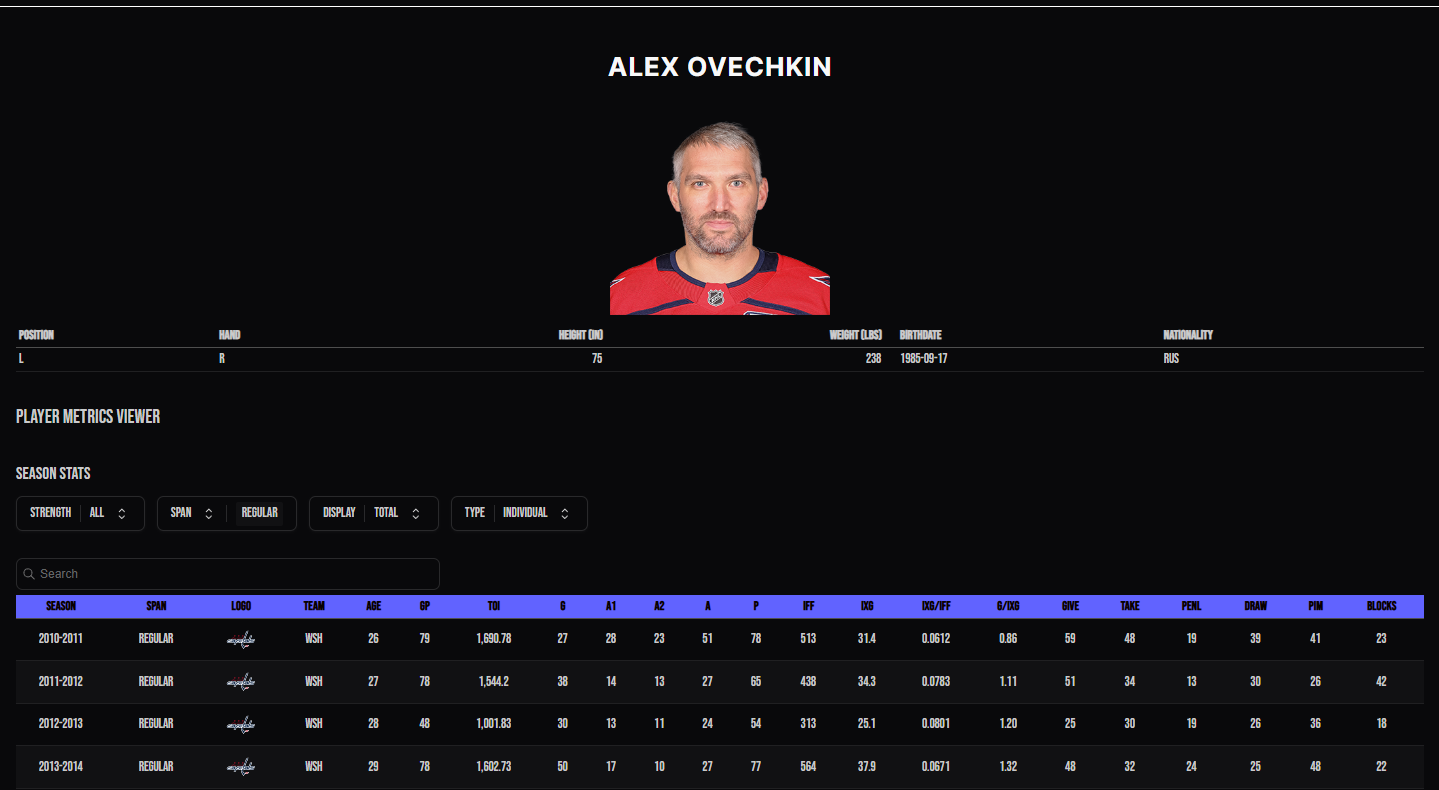
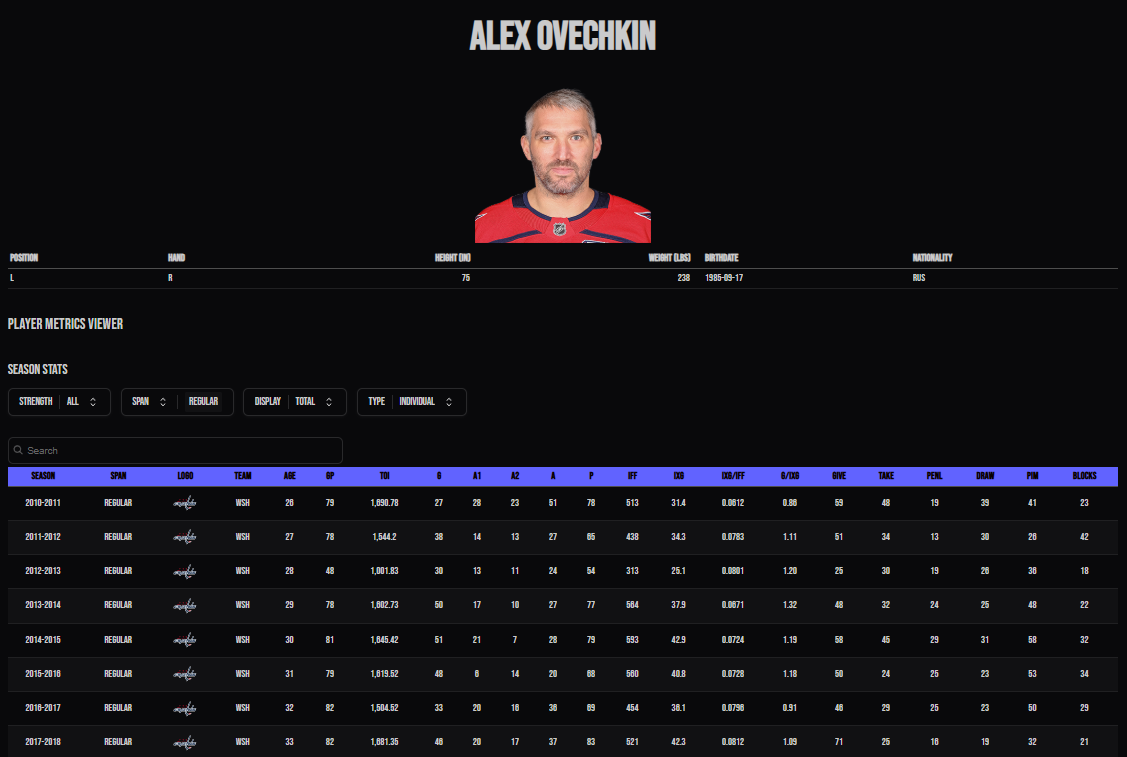
Sweeping changes to player pages and removal of pbp table

diff --git a/pages/players/[ID].md b/pages/players/[ID].md
@@ -55,77 +55,185 @@ AND
 
 ```sql game_titles
 SELECT DISTINCT
-   game_id,game_date,game_title
-FROM pbp
+   id,"date",game_title
+FROM schedule
 ```
 
 ```sql log
 SELECT
    SUBSTRING(t.game_title,1,9) as game_title,
-   t.game_date,
+   t.date as game_date,
    info.teamLogo,
    (A1+A2) as "A",
 	*
 FROM game_log
 LEFT JOIN ${game_titles} as t
-   ON game_log.Game=t.game_id
+   ON game_log.Game=t.id
 LEFT JOIN info
    ON game_log.Team=info.triCode AND game_log.Season=info.seasonId
 WHERE
-   ID = '${params.ID}'
-AND
-   Strength = '${inputs.strength_options.value}'
-AND
-   Span IN ${inputs.span_options.value}
-AND
-   Season = '${inputs.season_options.value}'
-```
-
-```sql plays
-SELECT
-   CASE
-      WHEN event_type IN ('missed-shot','shot-on-goal','goal') THEN "description" || ' - xG: ' || SUBSTRING(("xG"*100),1,5) || '%'
-      ELSE "description"
-   END as "description",
-   CASE 
-      WHEN strength_state NOT IN ('5v5','5v4','4v5') THEN 'Other' ELSE strength_state
-   END as strength_state,
-   CASE WHEN
-      x_adj < 0 THEN y_adj ELSE y_adj
-   END as x,
-   ABS(x_adj) as y,
-   *
-FROM pbp
-WHERE
-   skater_id = '${params.ID}'
-AND
-   season = '${inputs.shot_season.value}'
-AND
-   event_type IN ${inputs.event_options.value}
-AND
-   team = '${inputs.shot_team.value}'
-AND
-   strength_state IN ${inputs.strength_options_2.value}
-AND
-   season_type = '${inputs.span_options_2.value}'
-ORDER BY
-   game_date asc, event_num asc
+   game_log.ID = '${params.ID}'
+   AND Strength = '${inputs.strength_options.value}'
+   AND Span IN ${inputs.span_options.value}
+   AND Season = '${inputs.season_options.value}'
 ```
 
 ```sql shot_types   
-SELECT 
-   shot_type as "name",
-   COUNT(event_type) as "value"
-FROM ${plays} 
-GROUP BY
-   shot_type
+SELECT name, sum(value) as value
+FROM (
+      (
+         SELECT 
+            'wrist' as name,
+            WristFi as value,
+         FROM skater
+         WHERE
+            ID = '${params.ID}'
+            AND Season = '${inputs.shot_season.value}'
+            AND Team = '${inputs.shot_team.value}'
+            AND Strength IN ${inputs.strength_options_2.value}
+            AND Span = '${inputs.span_options_2.value}'
+      )
+      UNION ALL
+      (
+         SELECT 
+            'deflected' as name,
+            DeflectedFi as value,
+         FROM skater
+         WHERE
+            ID = '${params.ID}'
+            AND Season = '${inputs.shot_season.value}'
+            AND Team = '${inputs.shot_team.value}'
+            AND Strength IN ${inputs.strength_options_2.value}
+            AND Span = '${inputs.span_options_2.value}'
+      )
+      UNION ALL
+      (
+         SELECT 
+            'tip-in' as name,
+            "Tip-inFi" as value,
+         FROM skater
+         WHERE
+            ID = '${params.ID}'
+            AND Season = '${inputs.shot_season.value}'
+            AND Team = '${inputs.shot_team.value}'
+            AND Strength IN ${inputs.strength_options_2.value}
+            AND Span = '${inputs.span_options_2.value}'
+      )
+      UNION ALL
+      (
+         SELECT 
+            'slap' as name,
+            SlapFi as value,
+         FROM skater
+         WHERE
+            ID = '${params.ID}'
+            AND Season = '${inputs.shot_season.value}'
+            AND Team = '${inputs.shot_team.value}'
+            AND Strength IN ${inputs.strength_options_2.value}
+            AND Span = '${inputs.span_options_2.value}'
+      )
+      UNION ALL
+      (
+         SELECT 
+            'backhand' as name,
+            BackhandFi as value,
+         FROM skater
+         WHERE
+            ID = '${params.ID}'
+            AND Season = '${inputs.shot_season.value}'
+            AND Team = '${inputs.shot_team.value}'
+            AND Strength IN ${inputs.strength_options_2.value}
+            AND Span = '${inputs.span_options_2.value}'
+      )
+      UNION ALL
+      (
+         SELECT 
+            'snap' as name,
+            SnapFi as value,
+         FROM skater
+         WHERE
+            ID = '${params.ID}'
+            AND Season = '${inputs.shot_season.value}'
+            AND Team = '${inputs.shot_team.value}'
+            AND Strength IN ${inputs.strength_options_2.value}
+            AND Span = '${inputs.span_options_2.value}'
+      )
+      UNION ALL
+      (
+         SELECT 
+            'wrap-around' as name,
+            "Wrap-AroundFi" as value,
+         FROM skater
+         WHERE
+            ID = '${params.ID}'
+            AND Season = '${inputs.shot_season.value}'
+            AND Team = '${inputs.shot_team.value}'
+            AND Strength IN ${inputs.strength_options_2.value}
+            AND Span = '${inputs.span_options_2.value}'
+      )
+      UNION ALL
+      (
+         SELECT 
+            'poke' as name,
+            PokeFi as value,
+         FROM skater
+         WHERE
+            ID = '${params.ID}'
+            AND Season = '${inputs.shot_season.value}'
+            AND Team = '${inputs.shot_team.value}'
+            AND Strength IN ${inputs.strength_options_2.value}
+            AND Span = '${inputs.span_options_2.value}'
+      )
+      UNION ALL
+      (
+         SELECT 
+            'bat' as name,
+            BatFi as value,
+         FROM skater
+         WHERE
+            ID = '${params.ID}'
+            AND Season = '${inputs.shot_season.value}'
+            AND Team = '${inputs.shot_team.value}'
+            AND Strength IN ${inputs.strength_options_2.value}
+            AND Span = '${inputs.span_options_2.value}'
+      )
+      UNION ALL
+      (
+         SELECT 
+            'cradle' as name,
+            CradleFi as value,
+         FROM skater
+         WHERE
+            ID = '${params.ID}'
+            AND Season = '${inputs.shot_season.value}'
+            AND Team = '${inputs.shot_team.value}'
+            AND Strength IN ${inputs.strength_options_2.value}
+            AND Span = '${inputs.span_options_2.value}'
+      )
+      UNION ALL
+      (
+         SELECT 
+            'between-legs' as name,
+            "Between-legsFi" as value,
+         FROM skater
+         WHERE
+            ID = '${params.ID}'
+            AND Season = '${inputs.shot_season.value}'
+            AND Team = '${inputs.shot_team.value}'
+            AND Strength IN ${inputs.strength_options_2.value}
+            AND Span = '${inputs.span_options_2.value}'
+      )
+   )
+WHERE
+   value > 0
+GROUP BY "name"
 ```
 
 ```sql event_string
 SELECT
     STRING_AGG(event_type, ',') as string
 FROM
-    (SELECT DISTINCT event_type FROM pbp WHERE event_type IN ${inputs.event_options.value})
+    (SELECT DISTINCT event_type FROM events WHERE event_type IN ${inputs.event_options.value})
 ```
 
 ```sql strength_string
@@ -135,7 +243,7 @@ FROM
    (SELECT DISTINCT
       CASE WHEN
          strength_state IN ('5v5','5v4','4v5') THEN strength_state ELSE 'Other' END as strength_state
-   FROM pbp 
+   FROM strengths
    )
 WHERE 
    strength_state IN ${inputs.strength_options_2.value}

diff --git a/pages/index.md b/pages/index.md
@@ -19,18 +19,18 @@ hide_title: true
         <i>Evaluating, analyzing, and understanding the game of hockey through the lens of different analytical methods, including incorporation of analytics.</i>
     </div>
     <br>
-    <section class="w-full flex flex-col flex-wrap items-center text-center">
+    <section class="w-full flex flex-col items-center text-center">
         <h1 style="font-size:40px">Features</h1>
          <div class="flex justify-center gap-10 max-w-7xl w-full px-4">
-            <div>
+            <div class="flex flex-col items-center">
                 <img src="/previews/pbp_preview.png" alt="pbp_preview" class="image" style="height:200px; flex-shrink:0;"/>
                 <p>View plays of any game</p>
             </div>
-            <div>
+            <div class="flex flex-col items-center">
                 <img src="/previews/skater_preview.png" alt="skater_preview" class="image" style="height:200px; flex-shrink:0;"/>
                 <p>Skater stats and vizzes</p>
             </div>
-            <div>
+            <div class="flex flex-col items-center">
                 <img src="/previews/team_preview.png" alt="team_preview" class="image" style="height:200px; flex-shrink:0;"/>
                 <p>Team stats</p>
             </div>
